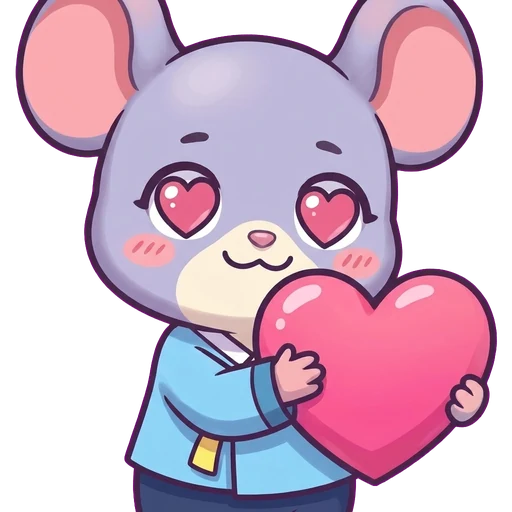
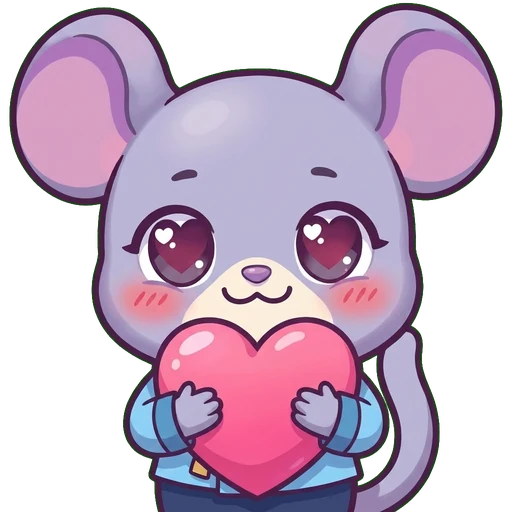
Replace 8 redone images: s5 hanbok colors, rooster shadow, cropped emotes
rabbit_s5 and monkey_s5 keep their original jacket colors, rooster_s3
loses the ground shadow, and rabbit_excited, rabbit_thanks, rat_love,
rooster_love and dog_excited no longer touch the top or side edges.

Claude-Session: https://claude.ai/code/session_01BPzEyfs4CnZ61wXWeSyjJf

diff --git a/CLAUDE.md b/CLAUDE.md
@@ -64,7 +64,7 @@
 
 ## 그림 제작 (이미지 생성 도구)
 - **방식(2026-11-02 확정): 띠마다 대표 한복 1벌, 오행은 코드로 표현**(배경 빛 + 오른쪽 아래 오행 배지 `elementBadge`). 띠당 13장(진화 5 + 표정 8) × 12띠 + 공용(부적 상징 6·부적 종이 2·한정 소품 11·계절 장면 11) ≈ 186장. 나중에 `${띠}_s${단계}_${오행}` 파일을 추가하면 그 오행 사용자에게 우선 사용
-- **다시 뽑기·추가 시트(2026-11-03)**: `docs/prompts/redo-2026-11-03.md` — A 진화 3장(토끼·원숭이 s5 한복 색 바뀜, 닭 s3 그림자), B 표정 5장(가장자리 잘림: rabbit_excited·rabbit_thanks·rat_love·rooster_love·dog_excited), C 계절 장면 4장(6.3MB 초과분 1K 재생성), D 공용 R01~R15. 다시 뽑은 그림은 띠 폴더 14번째 파일로 오므로 ingest 대신 `chroma.py`로 해당 칸만 교체
+- **다시 뽑기·추가 시트(2026-11-03)**: `docs/prompts/redo-2026-11-03.md` — **A1~A3·B1~B5 반영 완료(2026-11-03)**, 남은 것 C 계절 장면 4장·D 공용 R01~R15. A 진화 3장(토끼·원숭이 s5 한복 색 바뀜, 닭 s3 그림자), B 표정 5장(가장자리 잘림: rabbit_excited·rabbit_thanks·rat_love·rooster_love·dog_excited), C 계절 장면 4장(6.3MB 초과분 1K 재생성), D 공용 R01~R15. 다시 뽑은 그림은 띠 폴더 14번째 파일로 오므로 ingest 대신 `chroma.py`로 해당 칸만 교체
 - 프롬프트: 띠별 시트 `docs/prompts/zodiac/NN-{띠}.md`(목록 `README.md`, 대표 한복·배경색은 `saju-app/tools/zodiac_specs.json`), 공용 물건 수정본 `docs/prompts/tiger-pilot-redo.md`(사람 금지 강화). 사용자는 **1K(1024px)**로 생성
 - 드라이브: 「12지신 강림 그림」 아래 띠별 폴더(id는 `saju-app/tools/drive_folders.json`, 호랑이 = 「호랑이 시범 세트」). 사용자가 시트 순서대로 생성해 올림(파일 이름은 힉스필드 기본 `hf_YYYYMMDD_HHMMSS_…`)
 - **처리 순서**: ① `search_files`(parentId=띠 폴더, 한 쪽에 5·8장씩 나오니 pageToken으로 다음 쪽까지) ② `download_file_content`를 **한 장씩**(동시 호출 시 연결 끊김, 결과는 tool-results 파일로 저장됨 → base64 디코드) ③ `python3 -I saju-app/tools/ingest.py zodiac {띠} {원본폴더} [swap=calm:sleepy]`(배경색은 그림마다 자동 판별) → 생성 시각순으로 시트 01~13에 매칭(01=s2, 02~05=s1,s3,s4,s5, 06~13=표정), 배경 제거, `assets/char/{띠}_s{n}.webp`(768)·`assets/emo/{띠}_{표정}.webp`(512), `js/asset-manifest.js` 자동 갱신, 원본폴더에 `contact.jpg` ④ contact.jpg를 눈으로 확인(사람·글자 섞임, 순서) ⑤ `npm test` → 커밋 → 아티팩트에 새 webp·manifest 게시
